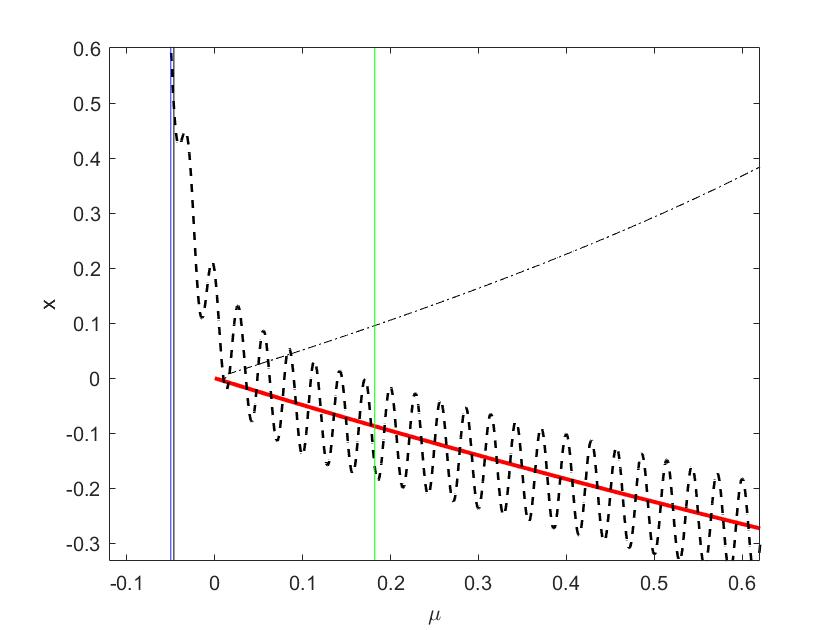
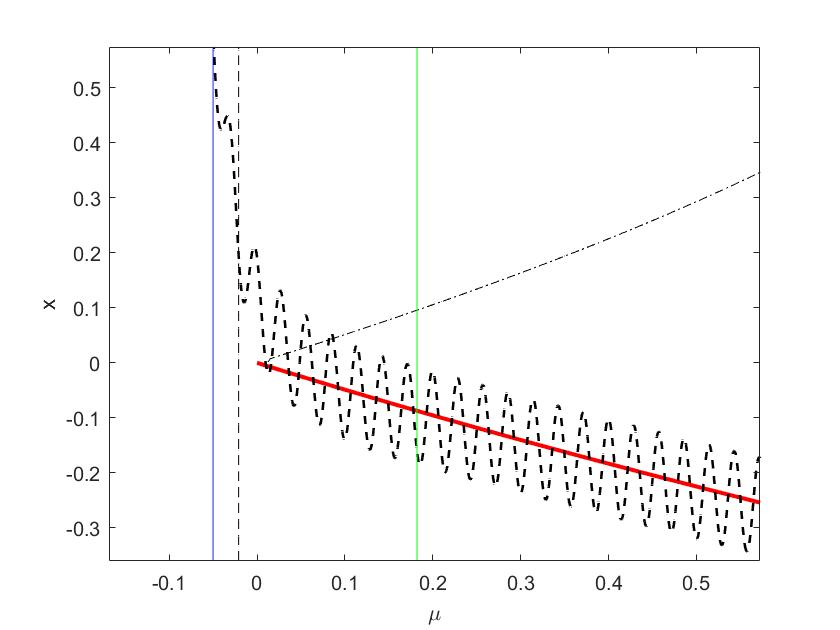
Updated oneD basic pipeline

diff --git a/Complete/OneD_matlab/Osc/oneD_w_Osc.m b/Complete/OneD_matlab/Osc/oneD_w_Osc.m
@@ -2,7 +2,8 @@
 %(1)A dynamics plot and a (2)comparison plot against frequency will be produced
 
 % Load function folder
-addpath('C:\Users\codyg\Desktop\MSc_Thesis\Cody\Complete\Functions')
+addpath('C:\Users\codyg\Desktop\MSc_Thesis\Cody\trunk\Complete\Functions')
+cd('C:\Users\codyg\Desktop\MSc_Thesis\Cody\trunk\Complete\Graphs\OneD_w_Osc')
  
 %Analysis
 
@@ -27,6 +28,7 @@ for i=1:N
     xfinal(i)=x(t2/h-N+i);
 end
  
+% Here is the application of the root finding algorithm. Now unneccessry. 
  
 %Search for bifurcation
 n=3000;
@@ -76,18 +78,20 @@ xmid=middle(mumid);
  
 %(1) Dynamics plot
 figure(1)
-%plot(mu,y,'r-.')
-plot(muper,xfinal,'k--','linewidth',2)
-hold on
-%plot(tipxdel,tipy,'r')
-xlim([stop,start])
-plot(mulower,xlower,'r','linewidth',2)
-hold on
-plot(mumid,xmid,'k:')
-plot(muupper,xupper,'r','linewidth',2)
-xlabel('\mu')
-ylabel('x')
- 
+    %plot(mu,y,'r-.')
+    plot(muper,xfinal,'k--','linewidth',2)
+    hold on
+    %plot(tipxdel,tipy,'r')
+    xlim([stop,start])
+    plot(mulower,xlower,'r','linewidth',2)
+    hold on
+    plot(mumid,xmid,'k:')
+    plot(muupper,xupper,'r','linewidth',2)
+    xlabel('\mu')
+    ylabel('x')
+
+print('-f1','osc_bif','-djpeg')
+
 %{
 
 %(2) Comparison plot
@@ -122,9 +126,12 @@ for i=1:length(invOmegavec)
 end
  
 figure(2)
-plot(invOmegavec,bifvec,'k','linewidth',2);
-hold on
-plot(invOmegavec,bifactualvec,'r*');
-xlabel('\Omega^{-1}');ylabel('\mu-\mu_{ns}')
+    plot(invOmegavec,bifvec,'k','linewidth',2);
+    hold on
+    plot(invOmegavec,bifactualvec,'r*');
+    xlabel('\Omega^{-1}');ylabel('\mu-\mu_{ns}')
+
+
+print('-f2','osc_Omegacomp','-djpeg')
 
 %}

diff --git a/Complete/OneD_matlab/Slow/oneD_basic.m b/Complete/OneD_matlab/Slow/oneD_basic.m
@@ -1,7 +1,10 @@
 %Bifurcation diagram for slow pass w/o osc
 
+criteria=.7;
+
 % Load function folder
 addpath('C:\Users\codyg\Desktop\MSc_Thesis\Cody\trunk\Complete\Functions')
+cd('C:\Users\codyg\Desktop\MSc_Thesis\Cody\trunk\Complete\Graphs\OneD_Basic')
 
 %Initial values and set up
 h=.01;
@@ -23,7 +26,7 @@ tipdelayed=eps*log(eps)/2;
 tipxdel=tipdelayed*ones(1,100);
 tipy=linspace(min(y),max(y),100);
 
-tipactual=mu(find(y>.05,1)-1);
+tipactual=mu(find(y>criteria,1)-1);
 dif=abs(tipdelayed-tipactual);
 fprintf('The difference in predicted tip for eps=%f is %f\n',eps,dif)
 
@@ -46,13 +49,13 @@ xlabel('\mu');ylabel('x')
 title('')
 %legend('Ramped Solution','Equilibrium')
 
-cd('C:\Users\codyg\Desktop\MSc_Thesis\Cody\trunk\Complete\Graphs\OneD_Basic')
-print('-f1','oneD_bif_diagram','-djpeg');
+print('-f1','slow_bif_diagram','-djpeg');
 
-fileID = fopen('oneD_bif_diagram_information.txt','w');
+fileID = fopen('slow_bif_diagram_information.txt','w');
 fprintf(fileID,'tipping actual =%f\n',tipactual);
 fprintf(fileID,'tipping estimate =%f\n',tipdelayed);
 fprintf(fileID,'epsilon=%f\n',eps);
+fprintf(fileID,'Criteria=%f\', criteria);
 fclose(fileID);
 
 %Comparison plot
@@ -75,7 +78,7 @@ for i=1:length(epsvec)
     [~,y,mu]=RK2sys(yDE,muDE,yInit,muInit,0,time,h);
 
     tipdelayedvec(i)=eps*log(eps);
-    tipactualvec(i)=mu(find(y>1,1));
+    tipactualvec(i)=mu(find(y>criteria,1));
     
 end
 figure(2)
@@ -83,4 +86,7 @@ plot(epsvec,tipdelayedvec,'k','linewidth',2);
 hold on
 plot(epsvec,tipactualvec,'r*');
 xlabel('\epsilon');ylabel('\mu-\mu_{ns}')
+
+
+print('-f2','slow_epscomp','-djpeg');
 

diff --git a/Complete/OneD_matlab/Slow_Osc/oneD_slow_osc.m b/Complete/OneD_matlab/Slow_Osc/oneD_slow_osc.m
@@ -8,6 +8,7 @@ eps = .05;
 lambda = .8;
 Omega = eps^(-lambda);
 A = 1;
+criteria=.2;
 
 mudel = eps * (-2.33811);
 muosc = 4 * abs(A)/(pi * Omega);
@@ -28,7 +29,6 @@ muDE = @(t, y, mu)(-eps);
 
 %I use the solution passing epsilon as tipping here.
 %Comparison
-criteria=.5;
 truetip = mu(find(y < criteria, 1, 'last'));
 region1boundary = 2 * abs(A)/Omega;
 region2boundary = muosc + mudel * (pi * B/2)^(1/3);
@@ -115,7 +115,7 @@ plot(mu, asymp, 'r')
 plot(region1x, yvec, 'g')
 plot(region2x, yvec, 'b')
 plot(tipping, yvec, 'r-.')
-plot(truetipvec, yvec, 'k')
+plot(truetipvec, yvec, 'k--')
 
 pos = [.6 .2 .5 .5];
 str = {
@@ -143,7 +143,7 @@ set(h3, 'color', 'r', 'linewidth', 2)
 plot(mu, y, 'k--', 'linewidth', 1.2)
 plot(region1x, yvec, 'g')
 plot(region2x, yvec, 'b')
-plot(truetipvec, yvec, 'k')
+plot(truetipvec, yvec, 'k--')
 
 %Label the graph
 xlabel('\mu'); ylabel('x')
